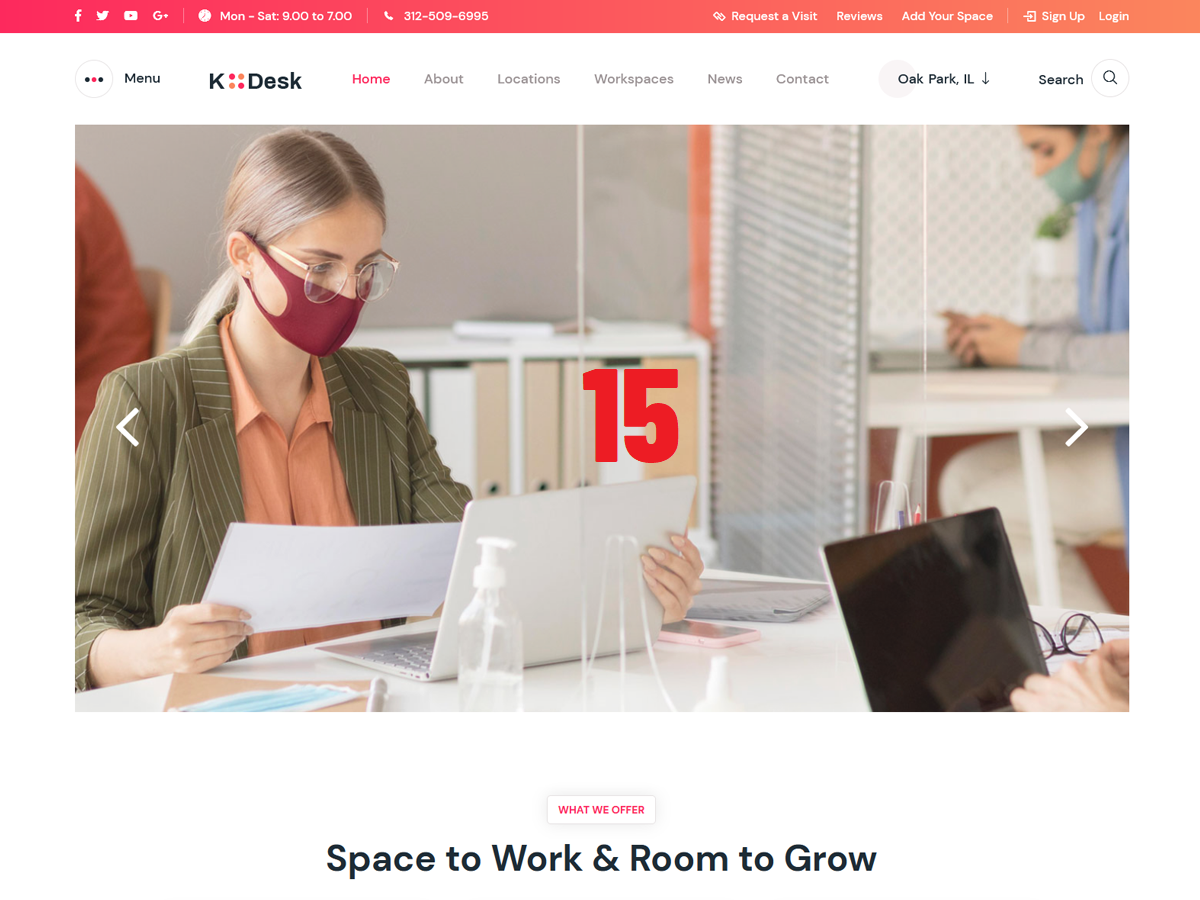
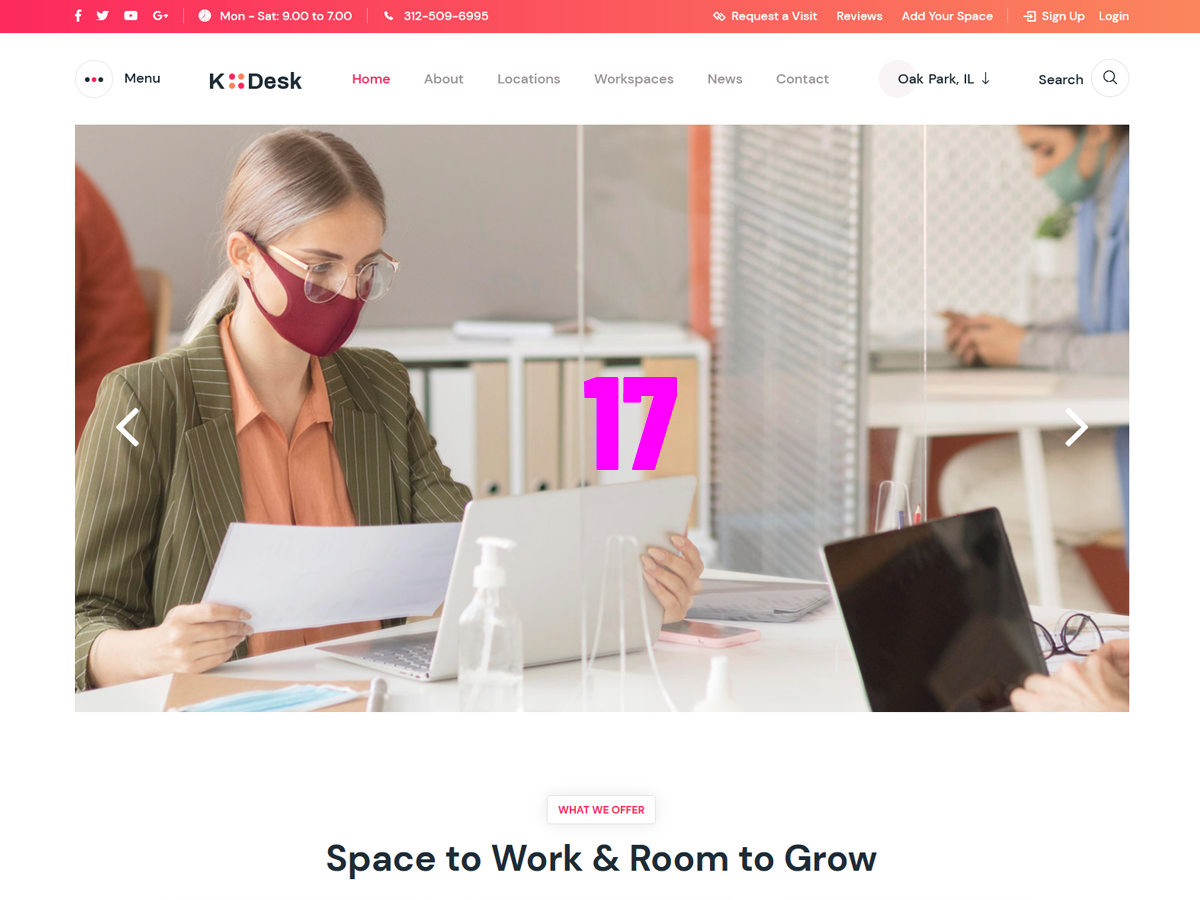
coversion between laptop and mobile

Changed region(s): [[0.4625, 0.4044, 0.5858, 0.5289]]

diff --git a/kodesk-child15/style.css b/kodesk-child15/style.css
@@ -1,5 +1,5 @@
 /**
-* Theme Name: Kodesk Child15
+* Theme Name: Kodesk Child17
 * Description: This is a child theme of Kodesk, generated by Merlin WP.
 * Author: <a href="http://themeforest.net/user/template_path">Theme Kalia</a>
 * Template: kodesk
@@ -104,70 +104,38 @@
     padding: 15px;
 }
 
-
-.workspaces-block-two .inner-box .image-box .view-btn a {
-    font-size: 16px;
-    color: #000;
-    background: rgb(255 255 255 / 68%);
-}
-
-
-
-
 .workspaces-block {
     padding-left: 20px;
     padding-right: 10px;
 }
-
+.workspaces-block-two img {
+    width: auto !important;
+    height: 100% !important;
+    /* max-width: unset !important; */
+}
+.workspaces-block-two .col-4 {
+    padding-right: 10px;
+    padding-left: 10px;
+}
+.workspaces-block-two .image {
+    height: 100% !important;
+}
+.workspaces-block-two .image-box {
+    height: 100% !important;
+}
 .workspaces-block-two .inner-box {
     box-shadow: none;/*0px 0px 10px 0px rgba(0, 0, 0, 0.08);*/
     padding: 0px;
     border-radius: 5px;
     margin-bottom: 20px;
 }
-
-
-
-
-
-
-
-
-
-
-
-.workspaces-block-two .row {
-    /* display: -ms-flexbox;
-    display: flex;
-    -ms-flex-wrap: wrap;
-    flex-wrap: wrap; */
-    margin-right: 0px;
-    margin-left: 0px;
-}
-.workspaces-block-two .col-4 {
-    padding-right: 10px;
-    padding-left: 10px;
-}
-
-.workspaces-block-two .inner-box .upper-box {
-    padding-left: 20px;
-    margin-top: 10px !important;
-}
-/*
-.workspaces-block-two .inner-box .feature-list li {
-    width: auto !important;
-}
-*/
-
 .workspaces-block-two .inner-box .feature-list li {
     padding: 8px 10px 10px 50px;
 }
-
 .workspaces-block-two .inner-box .image-box {
     margin-bottom: 0px !important;
     border-radius: 5px;
 }
-
 .workspaces-block-two .inner-box .image-box .image {
     border-radius: 5px 0px 0px 5px;
 }
@@ -177,19 +145,23 @@
     max-height: 183px;
     min-height: 173px;
 }
-.workspaces-block-two .image {
-    height: 100% !important;
+.workspaces-block-two .inner-box .image-box .view-btn a {
+    font-size: 16px;
+    color: #000;
+    background: rgb(255 255 255 / 68%);
 }
-
-.workspaces-block-two .image-box {
-    height: 100% !important;
+.workspaces-block-two .inner-box .upper-box {
+    padding-left: 20px;
+    margin-top: 10px !important;
 }
-.workspaces-block-two img {
-    width: auto !important;
-    height: 100% !important;
-    /* max-width: unset !important; */
+.workspaces-block-two .row {
+    /* display: -ms-flexbox;
+    display: flex;
+    -ms-flex-wrap: wrap;
+    flex-wrap: wrap; */
+    margin-right: 0px;
+    margin-left: 0px;
 }
-
 
 .v4-img-cnt {
     width: 33.33%;
@@ -219,6 +191,17 @@
     border-radius: 15px;
 }
 
+.v4-mini-control-panel {
+    display: none;
+}
+
+#v4-mini-map-btn {
+    float: right;
+    cursor: pointer;
+}
+#v4-mini-map-btn i {
+    padding-right: 5px;
+}
 
 @media only screen and (min-width: 1200px) {
     .v4-filter-section {
@@ -249,6 +232,9 @@
     }
     .blog-details-content {
         margin-top: 25px;
+    }
+    #v4-carts-view-area, #v4-map-view-area {
+        display: block;
     }
 }
 @media only screen and (max-width: 1200px) and (min-width: 990px) {
@@ -309,9 +295,6 @@
     }
     .workspaces-page-section {
         position: relative;
-        padding: 0px !important;
-    }
-    .workspaces-page-section {
         padding: 20px 0px 0px 0px !important;
     }
     .v4-filter-panel {
@@ -438,7 +421,7 @@
         transition: all 500ms ease;
     }
     #v4-ajax-sppiner {
-        padding-top: 5px;
+        padding-top: 2px;
     }
 }
 @media only screen and (max-width: 767px) {
@@ -550,7 +533,7 @@
         color: #a5adb3;
     }
     /* .content-side {
-        padding-bottom: 0px !important;
+        margin-top: -20px !important;
     } */
     .blog-details .post-banner .outer-box .inner-box .option-box .admin a {
         position: relative;
@@ -576,6 +559,29 @@
         height: 35px;
         border-radius: 50%;
     }
+    .main-footer .widget-section {
+        position: relative;
+        padding: 0px 0px 83px 0px;
+        border-bottom: 1px solid #34434e;
+    }
+    .main-footer .widget-section {
+        padding-bottom: 0px;
+    }
+    #v4-carts-view-area {
+        padding-bottom: 0px !important;
+    }
+    /* .cta-section {
+        padding-top: 20px !important;
+    } */
+    #v4-map-view-area {
+        display: none;
+        margin-top: 10px !important;
+    } 
+    .v4-mini-control-panel {
+        display: flex;
+        flex-direction: row-reverse;
+    }
+
 }
 
 

diff --git a/kodesk-child15/single-workspace.php b/kodesk-child15/single-workspace.php
@@ -120,7 +120,7 @@ if ( class_exists( '\Elementor\Plugin' ) && $data->get( 'tpl-type' ) == 'e') {
                                     	<?php if (!empty($prev_post)): ?>
                                         <div class="single-btn-box prev-btn">
                                             <a href="<?php echo esc_url(get_permalink($prev_post->ID)); ?>">
-                                                <i class="fas fa-angle-left"></i><i class="light-icon fas fa-angle-left"></i><span><?php esc_html_e( 'Prev', 'kodesk' ); ?></span>
+                                                <i class="light-icon fas fa-angle-left"></i><span><?php esc_html_e( 'Prev', 'kodesk' ); ?></span>
                                                 <h5><?php echo wp_kses(kodesk_trim( get_the_title($prev_post->ID), 5 ), true); ?></h5>
                                             </a>
                                         </div>
